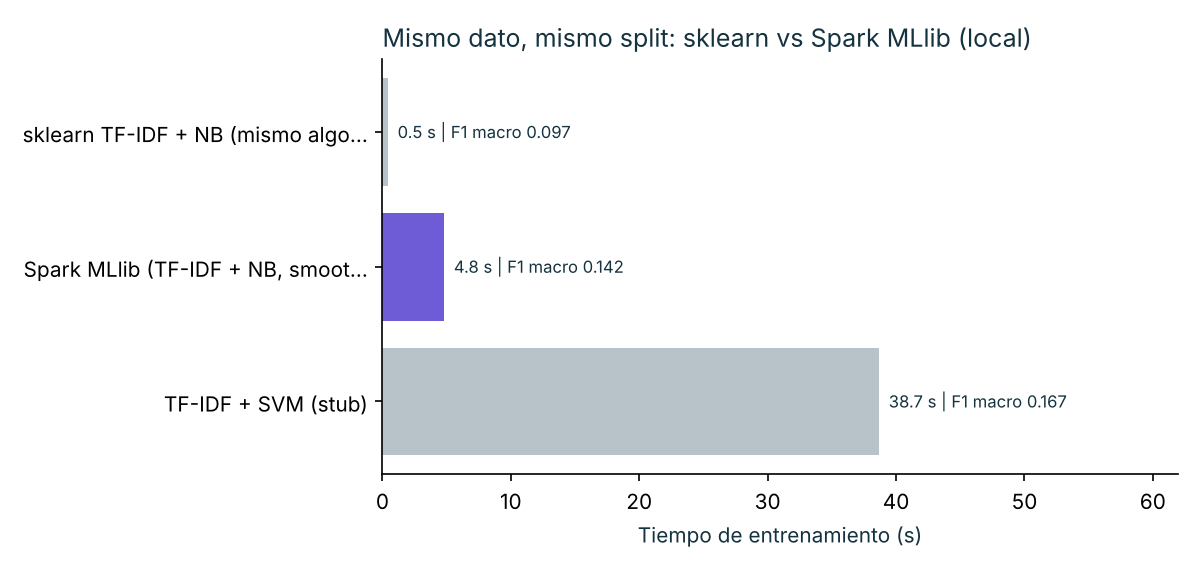
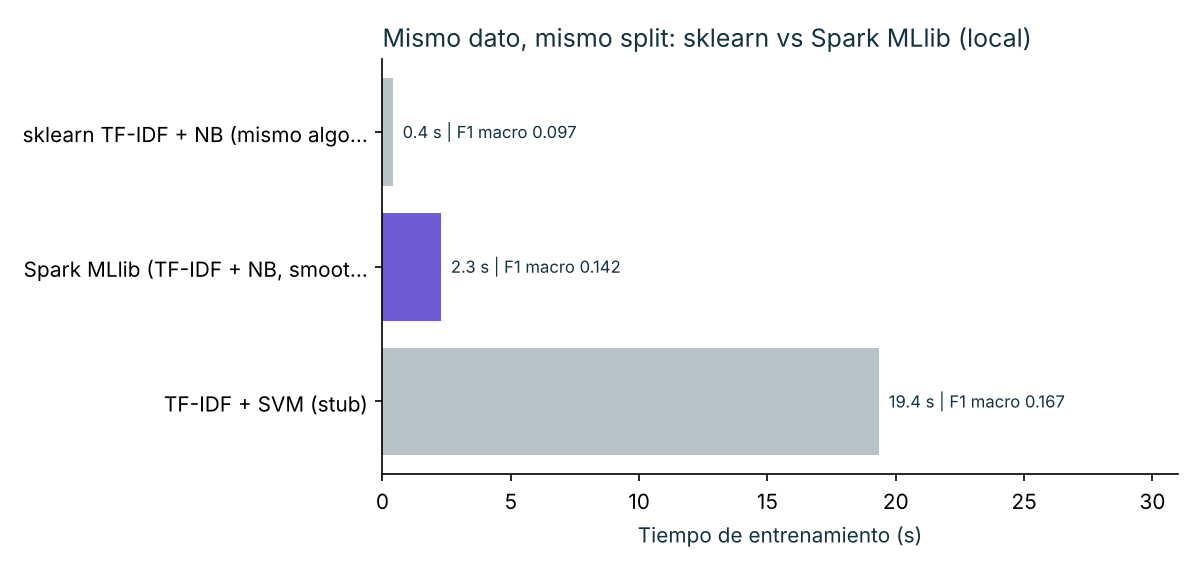
Avance: fases 7 y 9 (Spark, drift, Parquet) y borradores de fases 4-6
Claude-Session: https://claude.ai/code/session_015sj2amKqBQDTt6c7VX5s9X

diff --git a/work/fase9.py b/work/fase9.py
@@ -351,4 +351,11 @@ print("Guardado results/fase9.json")
 # **Fuentes.** Lectura de tendencia de la semana: *¿LLM o embeddings? El dilema del costo en la minería de textos* (se cita por su título y su idea general: comparar el costo de usar LLM frente a embeddings en tareas de minería de textos; no se reproducen datos de la lectura). Grootendorst, M. (2022). *BERTopic: Neural topic modeling with a class-based TF-IDF procedure*. arXiv:2203.05794. Documentación de spacy-llm (spaCy): integra LLM como componentes de un pipeline de spaCy (tareas como clasificación de texto con prompts), https://spacy.io/usage/large-language-models.
 
 # %% [conclusion]
-# PENDIENTE
+# **Conclusión de negocio (Fase 9).**
+# **Lo que SÍ se ejecutó (datos reales).**
+# 1. **Drift: hay un cambio fuerte.** Ordenando por `tweet_id`, se entrenó TF-IDF + LinearSVC con 22 224 tweets del tramo antiguo (70 % = 27 781) y se midió en 5 557 tweets de referencia y en los 11 907 más recientes. El PSI de las clases predichas es 0.350, por encima del umbral de 0.25 («cambio fuerte»; el de las etiquetas reales, solo informativo, es 0.519). El modelo predice mucho más «worry» (21.2 % → 37.1 %) y «sadness» (6.8 % → 14.8 %) y mucho menos «happiness» (20.0 % → 8.0 %, la clase que más aporta al PSI), «love» (11.2 % → 4.2 %) y «neutral» (36.5 % → 31.3 %). El F1 macro baja de 0.166 en la referencia a 0.142 en el tramo reciente (−0.024). Lectura de negocio: el tono de los tweets cambió con el tiempo (más preocupación y tristeza), así que un modelo entrenado solo con el pasado subestima la alegría; conviene vigilar el PSI de forma periódica y reentrenar cuando supere 0.25. Es un PSI sobre predicciones: indica que cambió el dato o el mundo, no por sí solo que el modelo esté peor (eso lo dice el F1, que sí cayó).
+# 2. **Parquet.** La tabla de resultados de esta corrida de prueba es diminuta (2 filas en el entorno de desarrollo): en CSV ocupa ≈ 0.14 KB y en Parquet ≈ 3.6 KB (razón CSV/Parquet = 0.04: Parquet pesa MÁS, porque guarda metadatos de esquema). Con el corpus completo (39 688 tweets, tweet_id + sentiment + texto_limpio) el CSV pesa 3.39 MB y el Parquet con snappy 2.25 MB (razón 1.51x, un 34 % menos). Spark lee el Parquet directamente y el plan muestra `ReadSchema` con solo las columnas necesarias. La ganancia de tamaño es moderada porque el dato es sobre todo texto libre, difícil de comprimir; en tablas numéricas o con muchas columnas repetidas la razón suele ser mayor. Por eso Parquet vale por esquema tipado y lectura por columnas más que por el tamaño en este corpus.
+# **Lo que NO se pudo ejecutar aquí (pendiente de la corrida en Colab o en local con acceso a Hugging Face; este entorno devuelve 403).** El código de a) BERTopic, b) LLM zero-shot y c) embeddings MiniLM está completo y se salta con el aviso «No ejecutado en este entorno: sin acceso a Hugging Face; ejecutar en Colab». NO hay cifras de estos tres bloques; no se reporta ningún F1, tiempo ni % de ruido de ellos.
+# - Lo siguiente es una EXPECTATIVA cualitativa, no un resultado: BERTopic debería dejar un porcentaje apreciable de tweets en el tema -1 (LDA asigna siempre un tema, 0 % sin tema por construcción) y sus temas deberían ser más temáticos que emocionales (como los de LDA en la Fase 3); un LLM pequeño en zero-shot probablemente dé respuestas fuera de la lista y sea mucho más lento por tweet que el SVM; los embeddings + clasificador lineal podrían igualar o mejorar algo a TF-IDF, pero la etiqueta es ruidosa y está solapada (13 clases), así que no cabe esperar un salto grande. Todo esto debe confirmarse con la corrida real.
+# - Lo que sí se midió y sirve para el costo: el prompt zero-shot ocupa ≈ 276 caracteres por tweet (≈ 69 000 tokens de entrada por cada 1 000 tweets, con la regla de 4 caracteres por token; es una aproximación) y el SVM predijo 1 000 tweets en ≈ 0.01 s de CPU. El costo en dinero del LLM es tokens × tarifa del proveedor, que no se asume aquí.
+# **Decisión.** Para este ejercicio (13 clases, corpus pequeño, datos públicos) se mantiene TF-IDF + SVM como modelo de producción por costo, latencia y privacidad, se añade monitoreo de drift con PSI y se completa la comparación con LLM y embeddings en Colab antes de recomendar un cambio.

diff --git a/work/respuesta_fase9.md b/work/respuesta_fase9.md
@@ -1,0 +1,18 @@
+**Fase 9: respuesta a la pregunta de la guía** (BERTopic vs. LDA; LLM zero-shot y embeddings vs. el mejor modelo; PSI de drift; CSV vs. Parquet)
+
+**Pendiente de ejecutar en Colab (a, b y c).** Hugging Face está bloqueado en este entorno (error 403). Por eso BERTopic (con `min_topic_size=30` sobre los 5 000 tweets de la Fase 3), el LLM zero-shot (100 tweets de prueba con `preguntar_llm()`) y los embeddings `all-MiniLM-L6-v2` están escritos completos pero se saltan con el aviso «No ejecutado en este entorno». No se reportan cifras de estos tres bloques. Como expectativa (no resultado): BERTopic dejará tweets en el tema -1, mientras LDA asigna siempre un tema; el LLM será mucho más lento que el SVM y puede responder fuera de la lista; los embeddings podrían acercarse o superar algo a TF-IDF.
+
+**Drift (ejecutado).** Se ordenó por `tweet_id`, se entrenó con el 70 % antiguo (TF-IDF + LinearSVC) y se comparó la distribución de clases predichas entre la referencia y el 30 % reciente. El PSI es 0.350, mayor que 0.25 (cambio fuerte): el modelo predice más «worry» (21.2 % a 37.1 %) y «sadness» (6.8 % a 14.8 %) y menos «happiness» (20.0 % a 8.0 %). El F1 macro baja de 0.166 a 0.142.
+
+**Parquet (ejecutado).** El corpus completo pesa 3.39 MB en CSV y 2.25 MB en Parquet con snappy (razón 1.51x). La tabla de resultados es tan pequeña que Parquet pesa más que el CSV por sus metadatos. Spark leyó el Parquet sin problema.
+
+**Cierre.** Un LLM o embeddings se justifican si importa el significado más allá de las palabras, no hay datos etiquetados o el volumen es pequeño, y si el dato puede salir de la organización o el modelo corre en local (LOPDP). Con volumen alto, latencia baja y datos personales, TF-IDF + SVM sigue siendo la mejor opción. Fuentes: *¿LLM o embeddings? El dilema del costo en la minería de textos* (lectura de la semana); Grootendorst (2022), BERTopic, arXiv:2203.05794; documentación de spacy-llm.
+
+| Medida (ejecutada) | Valor |
+|---|---|
+| PSI de predicciones (referencia vs. reciente) | 0.350 (cambio fuerte) |
+| F1 macro referencia / reciente | 0.166 / 0.142 |
+| Corpus CSV / Parquet snappy | 3.39 MB / 2.25 MB (1.51x) |
+| BERTopic, LLM zero-shot, embeddings | pendiente (Colab) |
+
+Figuras para la guía: `figuras/fase9_drift_distribuciones.png`, `figuras/fase9_tamano_csv_parquet.png` (y `figuras/fase9_bertopic_tema_emocion.png`, que solo se genera en Colab).
